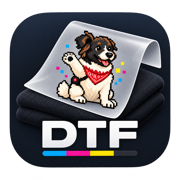
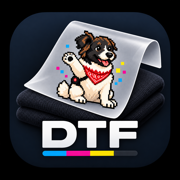
fix: actualiza iconos y metadatos SEO

Changed region(s): [[0.0, 0.0, 1.0, 1.0]]

diff --git a/index.html b/index.html
@@ -4,6 +4,25 @@
     <meta charset="UTF-8" />
     <meta name="viewport" content="width=device-width, initial-scale=1.0" />
     <meta name="theme-color" content="#0a0b0e" />
+    <meta name="description" content="Trama DTF: editor local de semitonos para preparar diseños, eliminar fondos y crear archivos PNG listos para impresión DTF." />
+    <meta name="robots" content="index,follow" />
+    <link rel="canonical" href="https://viborasnake.github.io/semitono-dtf/" />
+    <meta property="og:type" content="website" />
+    <meta property="og:site_name" content="Trama DTF" />
+    <meta property="og:locale" content="es_CL" />
+    <meta property="og:title" content="Trama DTF — Editor de semitonos" />
+    <meta property="og:description" content="Prepara diseños para impresión DTF con semitonos, eliminación de fondos y exportación PNG." />
+    <meta property="og:url" content="https://viborasnake.github.io/semitono-dtf/" />
+    <meta property="og:image" content="https://viborasnake.github.io/semitono-dtf/icon-512.png" />
+    <meta property="og:image:alt" content="Icono de Trama DTF" />
+    <meta property="og:image:type" content="image/png" />
+    <meta property="og:image:width" content="512" />
+    <meta property="og:image:height" content="512" />
+    <meta name="twitter:card" content="summary_large_image" />
+    <meta name="twitter:title" content="Trama DTF — Editor de semitonos" />
+    <meta name="twitter:description" content="Prepara diseños para impresión DTF con semitonos, eliminación de fondos y exportación PNG." />
+    <meta name="twitter:image" content="https://viborasnake.github.io/semitono-dtf/icon-512.png" />
+    <meta name="twitter:image:alt" content="Icono de Trama DTF" />
     <meta name="apple-mobile-web-app-capable" content="yes" />
     <meta name="apple-mobile-web-app-status-bar-style" content="black-translucent" />
     <meta name="apple-mobile-web-app-title" content="Trama DTF" />
@@ -11,7 +30,10 @@
     <link rel="icon" type="image/png" sizes="32x32" href="favicon-32.png" />
     <link rel="apple-touch-icon" sizes="180x180" href="apple-touch-icon.png" />
     <link rel="manifest" href="manifest.webmanifest" />
-    <title>Trama — Semitonos para DTF</title>
+    <title>Trama DTF — Editor de semitonos</title>
+    <script type="application/ld+json">
+      {"@context":"https://schema.org","@type":"WebApplication","name":"Trama DTF","url":"https://viborasnake.github.io/semitono-dtf/","description":"Editor local de semitonos para preparar diseños para impresión DTF.","applicationCategory":"DesignApplication","operatingSystem":"Web","inLanguage":"es","image":"https://viborasnake.github.io/semitono-dtf/icon-512.png"}
+    </script>
   </head>
   <body>
     <div id="root"></div>

diff --git a/AUDIT_REGISTRO_CAMBIOS.md b/AUDIT_REGISTRO_CAMBIOS.md
@@ -11,6 +11,13 @@
 
 ## Cambios funcionales
 
+### SEO y vista previa al compartir — 2026-09-09, local
+
+- `index.html` incorpora descripción, robots, URL canónica, Open Graph y Twitter/X Card con título, descripción, URL e icono de Trama DTF.
+- Se añadió JSON-LD `WebApplication` para describir el editor a buscadores, conservando idioma español y la URL de GitHub Pages.
+- Se añadieron `public/robots.txt` y `public/sitemap.xml` apuntando a la URL pública del sitio.
+- La miniatura usa `icon-512.png` (512×512); las plataformas pueden recortarla según el formato de tarjeta. Las etiquetas se probaron en el build local; la vista final depende de la caché de cada plataforma social.
+
 ### Icono de app y Safari iOS — 2026-09-09, local
 
 - Se incorporó la imagen proporcionada como icono de navegador (16/32 px), icono de pantalla de inicio de iOS (180 px) y variantes de manifest (192/512 px).
@@ -160,6 +167,12 @@
 - Última revisión: siete pruebas adicionales sobre esquinas, alfa parcial, migración de presets y serialización/actualización de documentos sin duplicar diseños ni perder copias. Nuevos módulos: `src/preset-migration.ts`, `src/editor-document.ts` y sus pruebas. La recuperación tras recargar y el flujo completo de reedición aún requieren prueba manual en navegador; la serialización está cubierta por pruebas unitarias.
 
 ## Puntos para auditoría posterior
+
+## Icono de la app: corrección de borde — 2026-09-09, local
+
+- Se regeneraron `icon-512.png`, `icon-192.png`, `apple-touch-icon.png`, `favicon-32.png` y `favicon-16.png` sin el marco blanco exterior que aparecía al instalar/añadir la app desde Safari.
+- Se mantuvieron el perro pixel-art, la plancha, el texto DTF y la barra de color; los cinco tamaños se derivan de la misma imagen cuadrada para evitar variantes desalineadas.
+- El cambio está preparado localmente y no se ha desplegado a GitHub.
 
 - Para auditar, comparar el código publicado con `7bc0b7f` y revisar también cualquier cambio posterior del árbol de trabajo.
 - La distribución es heurística determinista (24 candidatos), no un solucionador matemático óptimo para todos los casos.
